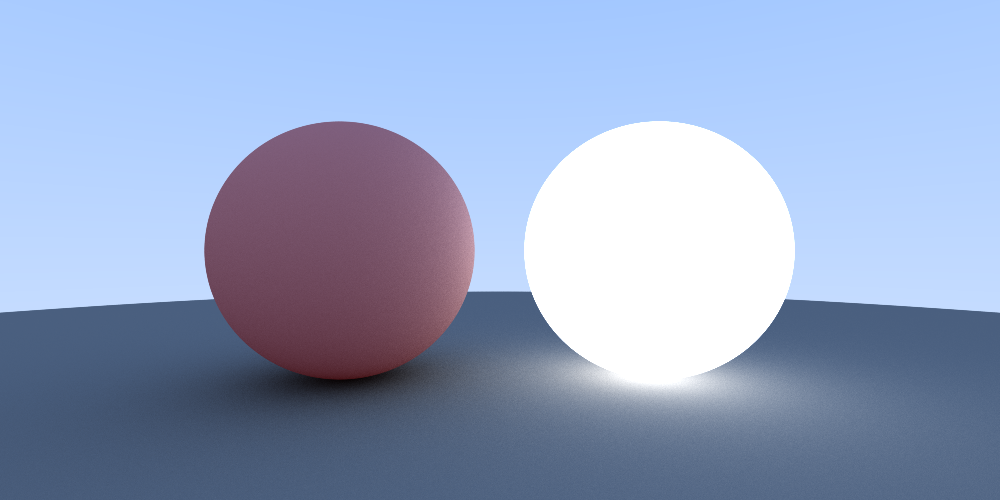
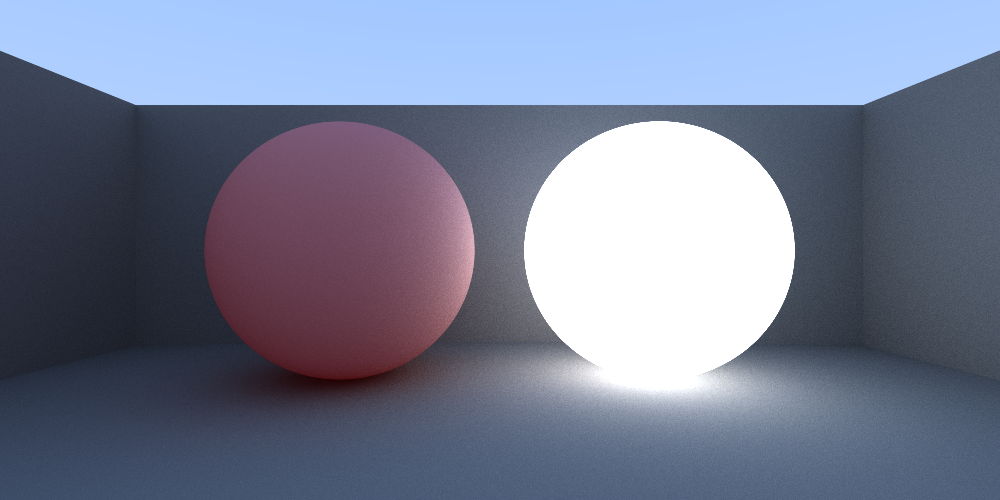
Add Rectangles and an Object super class.

diff --git a/src/scene.h b/src/scene.h
@@ -7,7 +7,9 @@
 
 #include "ray.h"
 #include "image.h"
+#include "object.h"
 #include "sphere.h"
+#include "rectangle.h"
 
 
 using draw_func = std::function<color (int, int, ray&, Image&)>;
@@ -17,6 +19,7 @@ struct Scene {
     Scene(int n_bounces): n_bounces(n_bounces) {}
 
     void add_sphere(const point3&, const double&, const color&, const double&);
+    void add_rectangle(const point3&, const double&, const double&, const color&, const double&, const face&);
     color draw(const int&, const int&, const ray&, const Image&, const int&) const;
     color draw_sky(const int&, const int&, const ray&, const Image&) const;
 
@@ -25,33 +28,38 @@ struct Scene {
     }
 
     private:
-        std::vector<std::shared_ptr<Sphere>> spheres;
+        std::vector<std::shared_ptr<Object>> objects;
         int n_bounces;
 };
 
 
 inline void Scene::add_sphere(const point3& center, const double& radius, const color& color, const double& gl) {
-    spheres.push_back(std::make_shared<Sphere>(center, radius, color, gl));
+    objects.push_back(std::make_shared<Sphere>(center, radius, color, gl));
+}
+
+inline void Scene::add_rectangle(const point3& o, const double& w, const double& h, const color& color, const double& gl, const face& f) {
+    objects.push_back(std::make_shared<Rectangle>(o, w, h, color, gl, f));
 }
 
 inline color Scene::draw(const int& i, const int& j, const ray& r, const Image& img, const int& n) const {
     if (n <= 0) return color(0, 0, 0);
 
     double t_last = std::numeric_limits<double>::max();
-    std::shared_ptr<Sphere> s_last;
-    for (auto& x : spheres) {
+    std::shared_ptr<Object> o_last;
+    for (auto& x : objects) {
         auto t = x->hit(r);
         if (t > 0 && t < t_last) {
             t_last = t;
-            s_last = x;
+            o_last = x;
         }
     }
 
     if (t_last < std::numeric_limits<double>::max()) {
         point3 hit_point = r.at(t_last);
-        vec3 normal = hit_point - s_last->center;
+        vec3 normal = o_last->normal(hit_point);
+        if (r.dir * normal > 0) normal = -normal;
         ray new_ray = ray(hit_point, normal.unit_vec() + vec3::rand().unit_vec());
-        return 0.5*this->draw(i, j, new_ray, img, n-1) + std::pow(s_last->glow, 1)*s_last->color;
+        return 0.5*this->draw(i, j, new_ray, img, n-1) + std::pow(o_last->glow, 1)*o_last->obj_color;
     }
     return draw_sky(i, j, r, img);
 }

diff --git a/src/rectangle.h b/src/rectangle.h
@@ -1,0 +1,60 @@
+#pragma once
+
+#include <limits>
+
+#include "object.h"
+#include "ray.h"
+
+enum face { x_side, y_side, z_side };
+
+struct Rectangle : Object {
+    Rectangle(const point3& o, const double& w, const double& h, const color& color, const double& gl, face face):
+                    Object(gl, color), orig(o), w(w), h(h), face(face) {}
+
+    double hit(const ray& r) const;
+    vec3 normal(const point3& hp) const;
+    inline bool check_bounds(const point3& hp) const;
+
+    point3 orig;
+    double w, h;
+    face face;
+};
+
+inline bool is_between(double x, double a, double b) {
+    if (a > b) std::swap(a, b);
+    return x >= a && x <= b;
+}
+
+inline bool Rectangle::check_bounds(const point3& hp) const {
+    switch (face) {
+        case x_side: return is_between(hp.z(), orig.z(), orig.z() - w) && is_between(hp.y(), orig.y(), orig.y() + h);
+        case y_side: return is_between(hp.x(), orig.x(), orig.x() + w) && is_between(hp.z(), orig.z(), orig.z() + h);
+        case z_side: return is_between(hp.x(), orig.x(), orig.x() + w) && is_between(hp.y(), orig.y(), orig.y() + h);
+    }
+}
+
+
+inline double Rectangle::hit(const ray& r) const {
+    if (face == x_side && r.dir.x() == 0.) return -1;
+    if (face == y_side && r.dir.y() == 0.) return -1;
+    if (face == z_side && r.dir.z() == 0.) return -1;
+
+    double t;
+    if (face == x_side) t = (orig.x() - r.orig.x())/r.dir.x();
+    else if (face == y_side) t = (orig.y() - r.orig.y())/r.dir.y();
+    else t = (orig.z() - r.orig.z())/r.dir.z();
+
+    point3 hp = r.at(t); // hit point
+    if (check_bounds(hp)) {
+        return t;
+    }
+    return -1;
+}
+
+inline vec3 Rectangle::normal(const point3& hp) const {
+    switch (face) {
+        case x_side: return vec3(1.0, 0.0, 0.0);
+        case y_side: return vec3(0.0, 1.0, 0.0);
+        case z_side: return vec3(0.0, 0.0, 1.0);
+    }
+};

diff --git a/src/sphere.h b/src/sphere.h
@@ -1,24 +1,23 @@
 #pragma once
 
+#include "object.h"
+#include "vec3.h"
 #include "ray.h"
 
-struct Sphere {
+struct Sphere : Object {
     Sphere(const point3& center, const double& radius, const color& color, const double& gl):
-                         center(center), radius(radius), color(color), glow(gl) {}
+            Object(gl, color), center(center), radius(radius) {}
 
     double hit(const ray& r) const;
+    vec3 normal(const point3& hp) const;
 
-    color color;
-    double glow;
     point3 center;
     double radius;
 };
 
 
 // R = ray, C = sphere centre
-// (R-C)(R-C) = r^2
-// R^2 - 2RC + C^2 - r^2 = 0
-// (A+Bx)^2 - 2C(A + Bx) + C^2 - r^2 = 0
+// (R-C)(R-C) = normal(const point3& hp) constA + Bx) + C^2 - r^2 = 0
 // (Bx)^2 + (2AB - 2BC)x + A^2 + C^2 - r^2 - 2AC = 0
 // (Bx)^2 + 2B(A-C)x + (A-C)^2 - r^2 = 0
 inline double Sphere::hit(const ray& r) const {
@@ -32,3 +31,8 @@ inline double Sphere::hit(const ray& r) const {
     if (disc < 0) return -1;
     return (-b - sqrt(disc))/(2*a);
 }
+
+inline vec3 Sphere::normal(const point3& hp) const {
+    return hp - this->center;
+}
+

diff --git a/src/main.cpp b/src/main.cpp
@@ -4,6 +4,7 @@
 #include "vec3.h"
 #include "camera.h"
 #include "scene.h"
+#include "rectangle.h"
 
 
 int main() {
@@ -14,7 +15,10 @@ int main() {
     Scene scene = Scene(1e3);
     scene.add_sphere(point3{-0.6, 0, -2}, 0.5, color{1, 0, 0}, 0.2);
     scene.add_sphere(point3{0, -100.5, -2}, 100, color{0, 1, 0}, 0.0);
-    scene.add_sphere(point3{0.6, 0.0, -2}, 0.5, color{1, 1, 1}, 1.5);
+    scene.add_sphere(point3{0.6, 0, -2}, 0.5, color{1, 1, 1}, 1.9);
+    scene.add_rectangle(point3{-2.0, -0.7, -2.75}, 4, 1.5, color{0, 0, 0}, 1.1, z_side);
+    scene.add_rectangle(point3{-2.0, -0.7, -2.75}, -4, 1.5, color{0, 0, 0}, 1.1, x_side);
+    scene.add_rectangle(point3{2.0, -0.7, -2.75}, -4, 1.5, color{0, 0, 0}, 1.1, x_side);
 
     img.fill_pixels(scene.get_fill_func(), 500);
     img.to_ppm(file);

diff --git a/src/object.h b/src/object.h
@@ -1,0 +1,13 @@
+#pragma once
+
+#include "ray.h"
+
+struct Object {
+    Object(double const& g, color const& c): glow(g), obj_color(c) {}
+
+    virtual double hit(const ray& r) const = 0;
+    virtual vec3 normal(const point3& hp) const = 0;
+
+    color obj_color;
+    double glow;
+};

diff --git a/README.md b/README.md
@@ -14,7 +14,10 @@ The scene is described in the [main.cpp](./main.cpp) file:
 Scene scene = Scene(1e3);
 scene.add_sphere(point3{-0.6, 0, -2}, 0.5, color{1, 0, 0}, 0.2);
 scene.add_sphere(point3{0, -100.5, -2}, 100, color{0, 1, 0}, 0.0);
-scene.add_sphere(point3{0.6, 0.0, -2}, 0.5, color{1, 1, 1}, 1.2);
+scene.add_sphere(point3{0.6, 0, -2}, 0.5, color{1, 1, 1}, 1.9);
+scene.add_rectangle(point3{-2.0, -0.7, -2.75}, 4, 1.5, color{0, 0, 0}, 1.1, z_side);
+scene.add_rectangle(point3{-2.0, -0.7, -2.75}, -4, 1.5, color{0, 0, 0}, 1.1, x_side);
+scene.add_rectangle(point3{2.0, -0.7, -2.75}, -4, 1.5, color{0, 0, 0}, 1.1, x_side);
 
 ...
 ```
